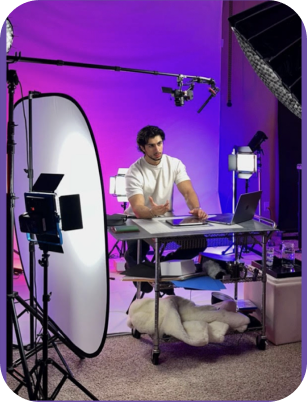
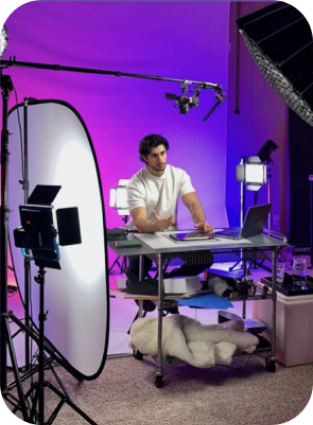
git addd .

diff --git a/app/Components/BenefitSection/BenefitSection.jsx b/app/Components/BenefitSection/BenefitSection.jsx
@@ -74,14 +74,10 @@ const BenefitSection = () => {
           </div>
         </div>
         <div className="md:w-[30%] pt-10 md:pt-0">
-          <div className="h-[452px] w-[250px] relative mx-auto overflow-hidden">
-            {/* <Image
-              src={man}
-              className="w-full h-full object-center"
-              alt="pic"
-            /> */}
+          <div className="h-[452px] w-[250px] relative mx-auto overflow-hidden b-phone bg-cover bg-left-top">
             
-            <div className="w-full h-full object-center rounded-3xl z-[20] overflow-hidden relative">
+            
+            <div className=" w-full h-full object-center rounded-3xl z-[20] overflow-hidden">
               <Image
                 src={iphone}
                 className="max-w-[398px] max-h-[782px] w-full h-full object-center"

diff --git a/app/Components/ViewersSection/ViewersSection.jsx b/app/Components/ViewersSection/ViewersSection.jsx
@@ -22,7 +22,7 @@ const ViewersSection = () => {
 
         {/* Image Section */}
         <div className="rounded-xl w-full">
-          <Image src={viewerImg} alt="Studio Setup" className='w-full' />
+          <Image src={viewerImg} alt="Studio Setup" className='max-w-[313px] max-h-[425px] h-full w-full mx-auto rounded-lg' />
         </div>
 
         {/* 2024 Viewers Data */}
